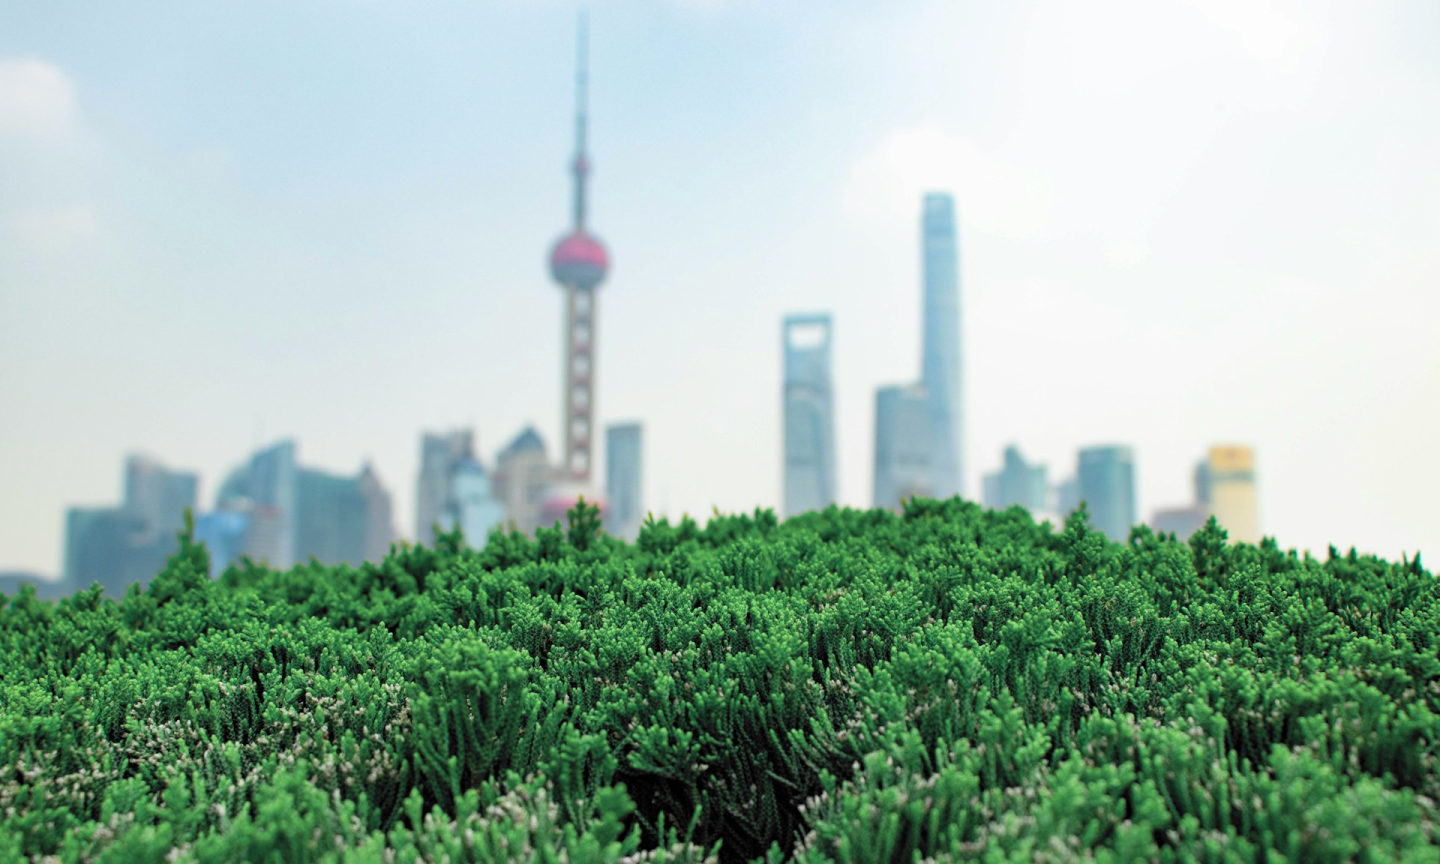
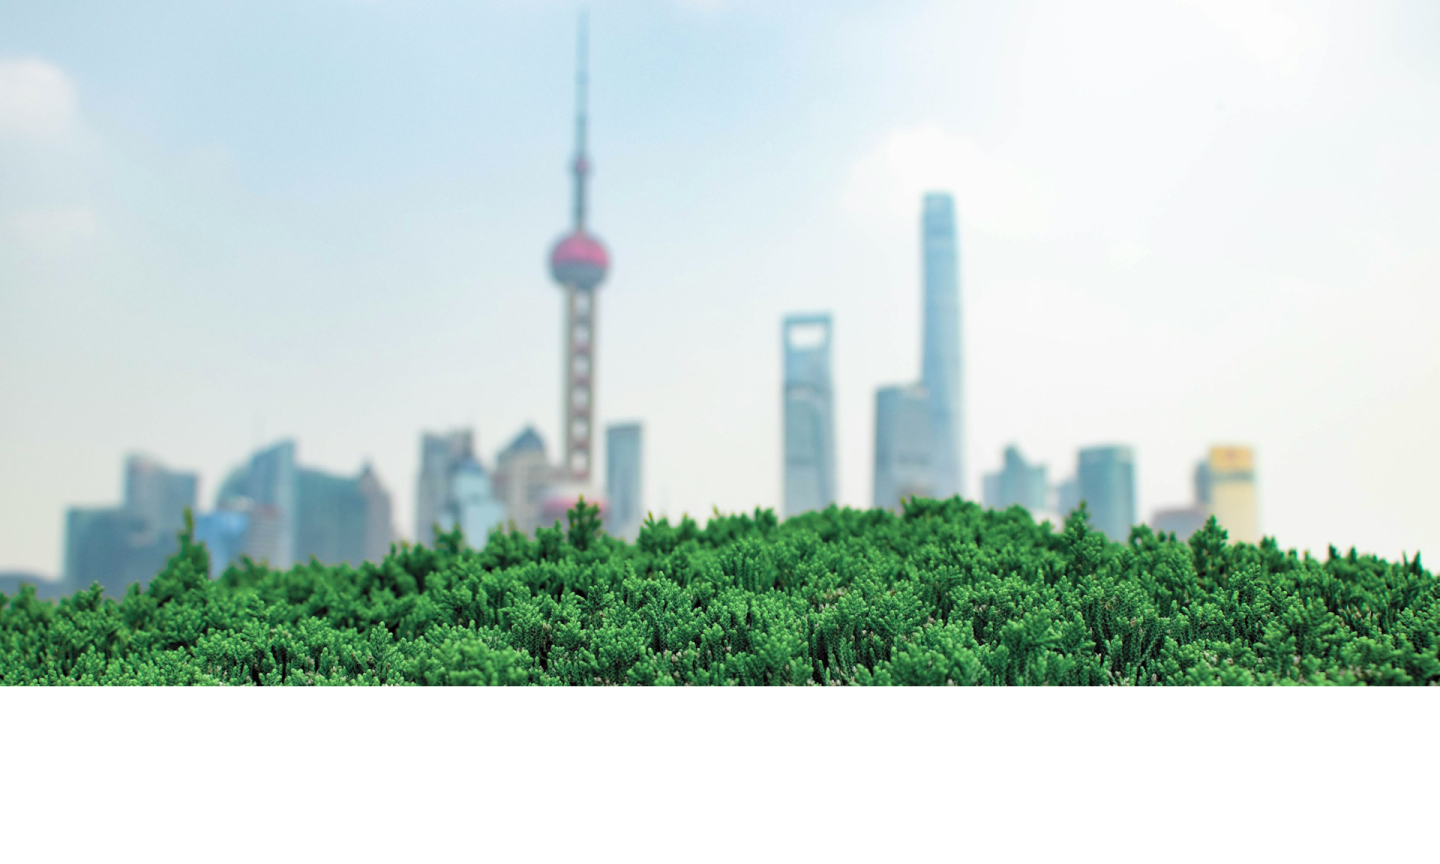
[feat][wip] Responsive Header

Changed region(s): [[0.0, 0.7812, 1.0, 1.0]]

diff --git a/index.html b/index.html
@@ -42,15 +42,18 @@
     </div>
   </nav>
   <!-- > Parallax -->
-  <section class="parallax rel flex jc:center ai:center height:100vh overflow:hidden z-index:-2">
-    <img src="src/assets/parallax/bg.png" data-speed="0.3" alt="">
+  <section
+    class="parallax rel flex jc:center ai:center height:100vh mb:10rem {mb:8rem;height:80vh}@<lg {mb:6rem;height:65vh}@<md {mb:4rem;height:60vh}@<sm 
+    {mb:2rem;height:40vh}@<xs {mb:1rem;height:30vh}@<2xs {mb:1rem;height:25vh}@<3xs {.5rem;height:20vh}@<4xs overflow:hidden z-index:-2">
+    <img src="src/assets/parallax/bg.png" data-speed="0.4" alt="">
+    <span
+      class="fixed text-wrap:nowrap fg:primary f:8rem top:0 translateY(50%) f:6rem@<lg f:4rem@<md {translateY(80%);f:2.5rem}@<xs {translateY(100%);f:2rem}@<2xs {translateY(120%);f:1.5rem}@<3xs {translateY(240%);f:1rem}@<3xs">
+      O sabor da natureza
+    </span>
     <img src="src/assets/parallax/grass.png" data-speed="0.3" alt="">
-    <span class="fixed text-wrap:nowrap fg:primary f:8rem top:0 translateY(50%) f:6rem@<lg f:4rem@<md f:2.5rem@<xs f:2rem@<2xs z-index:0">O sabor
-      da natureza</span>
     <img src="src/assets/parallax/coffe.png" data-speed="0.3" alt="">
-    <img src="src/assets/parallax/grass-2.png" data-speed="0.3" alt="">
+    <img src="src/assets/parallax/grass-2.png" data-speed="0.2" alt="">
   </section>
-
   <!-- > Main Container -->
   <main class="bg:white rel flex flex-col jc:center ai:center flex-grow:1 m:0|2.25rem">
     <!-- > Card Container -->
